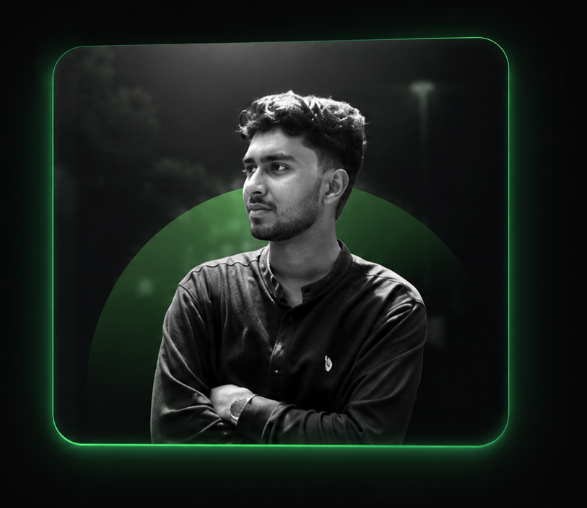
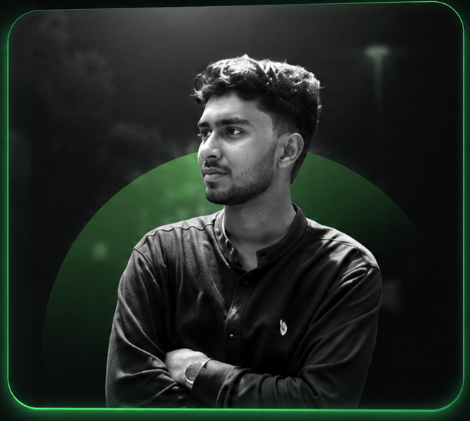
crop-outer-black-frame-from-profile-photo

diff --git a/scratch/crop_profile.py b/scratch/crop_profile.py
@@ -1,0 +1,30 @@
+from PIL import Image
+
+img = Image.open('public/assets/profile.jpg').convert('RGB')
+width, height = img.size
+
+pixels = img.load()
+min_x, max_x = width, 0
+min_y, max_y = height, 0
+
+# Find inner card bounds by detecting pixels with green glow or content brightness
+for y in range(height):
+    for x in range(width):
+        r, g, b = pixels[x, y]
+        # Ignore outer black background (r<35, g<35, b<35)
+        if g > 45 or r > 45 or b > 45:
+            if x < min_x: min_x = x
+            if x > max_x: max_x = x
+            if y < min_y: min_y = y
+            if y > max_y: max_y = y
+
+print(f"Detected bounding box: min_x={min_x}, min_y={min_y}, max_x={max_x}, max_y={max_y}")
+
+# Crop precisely around the inner card
+cropped = img.crop((min_x, min_y, max_x + 1, max_y + 1))
+cropped.save('public/assets/profile.jpg')
+cropped.save('public/assets/profile_real.jpg')
+cropped.save('public/assets/profile.png')
+cropped.save('C:/Users/LENOVO/.gemini/antigravity-ide/brain/b9d1fd9c-7902-4c3c-8619-0e3b3adb51ed/cropped_profile.png')
+
+print("Successfully cropped profile photo!")
